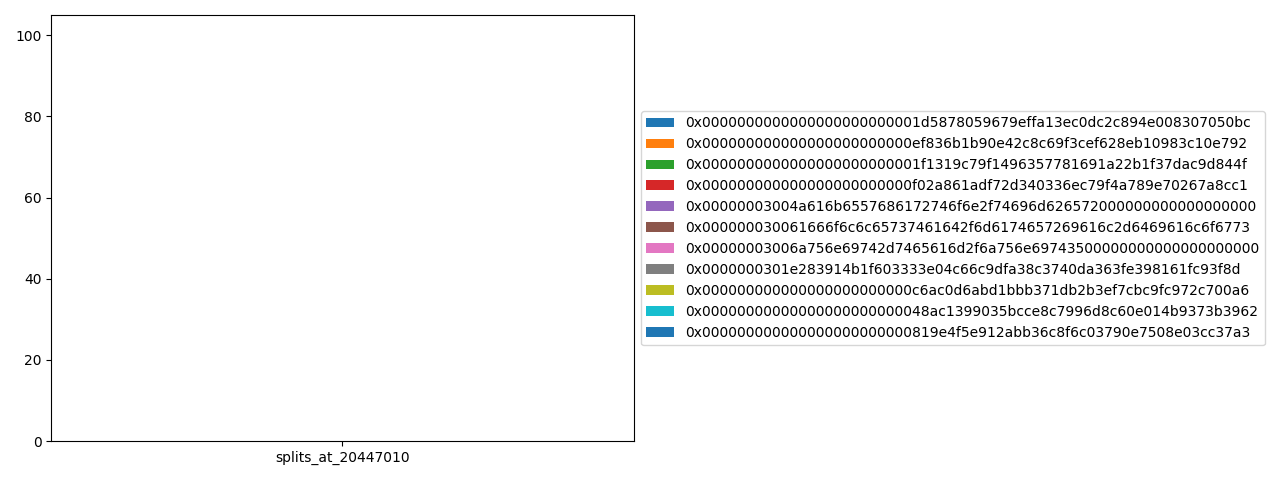
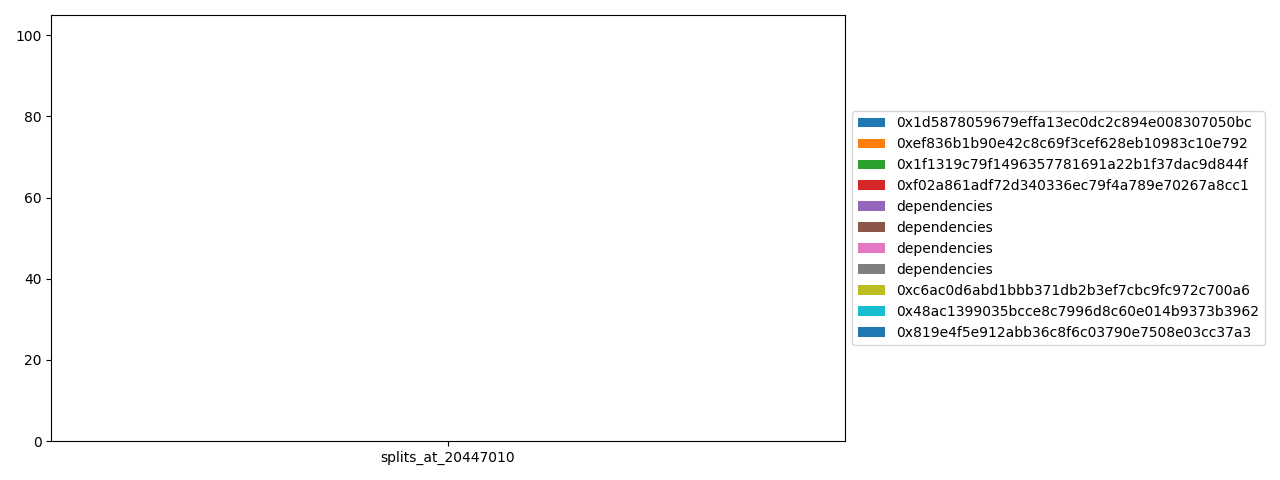
merge dependencies
#55

Changed region(s): [[0.5, 0.2188, 1.0, 0.7188], [0.2188, 0.9375, 0.4062, 0.9688]]

diff --git a/drips/charts/generate-charts.py b/drips/charts/generate-charts.py
@@ -2,6 +2,16 @@ import matplotlib.pyplot as plt
 import os
 import pandas
 
+def format_ethereum_address(row):
+    print('format_ethereum_address')
[1 lines of base64/hex data omitted]
+        row['ethereum_address'] = '0x0000000000000000000000000000000000000000'
+    elif row['ethereum_address'].startswith('0x000000000000000000000000'):
+        row['ethereum_address'] = row['ethereum_address'].replace('0x000000000000000000000000', '0x')
+    else:
+        row['ethereum_address'] = 'dependencies'
+    return row
+
 repos = [
     # content.elimu.eth
     'crowdsource',
@@ -77,6 +87,7 @@ for repo in repos:
     splits_set_event_blocks = splits_csv.columns[1:].values
     print('splits_set_event_blocks:', splits_set_event_blocks)
 
+    splits_csv = splits_csv.apply(format_ethereum_address, axis='columns')
     ethereum_addresses = splits_csv['ethereum_address'].values
     print('ethereum_addresses: \n', ethereum_addresses)
 
